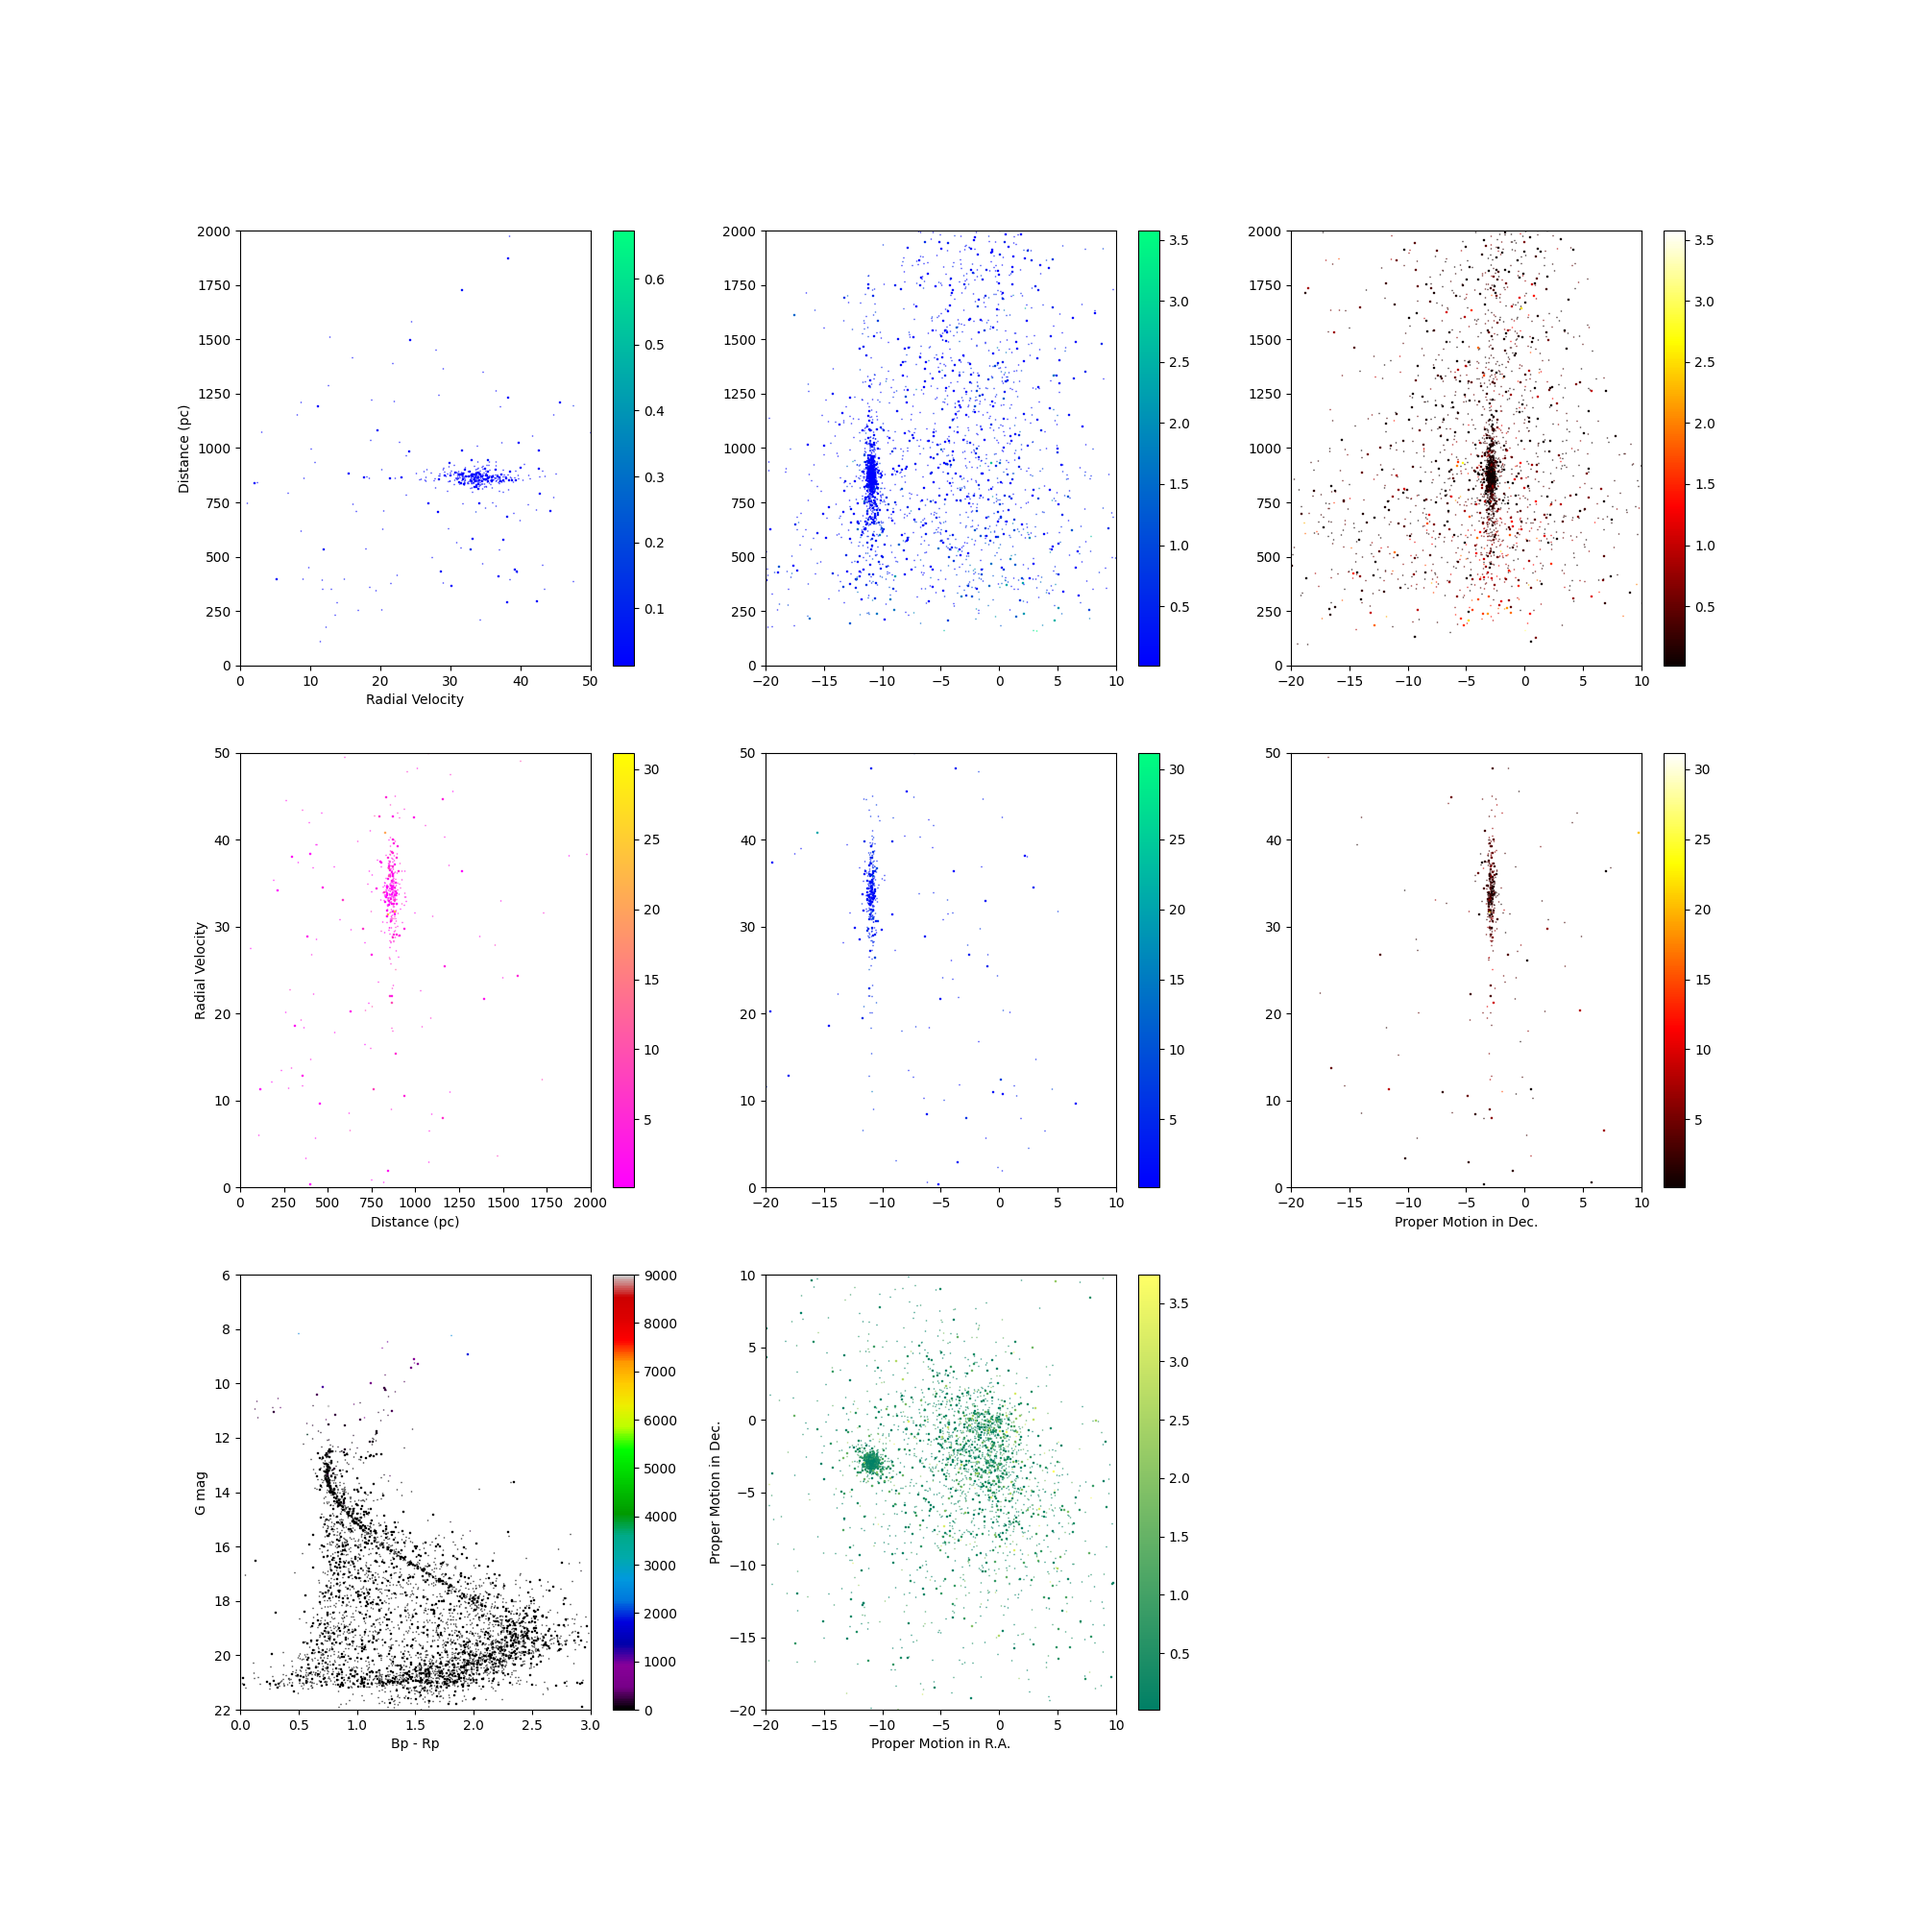
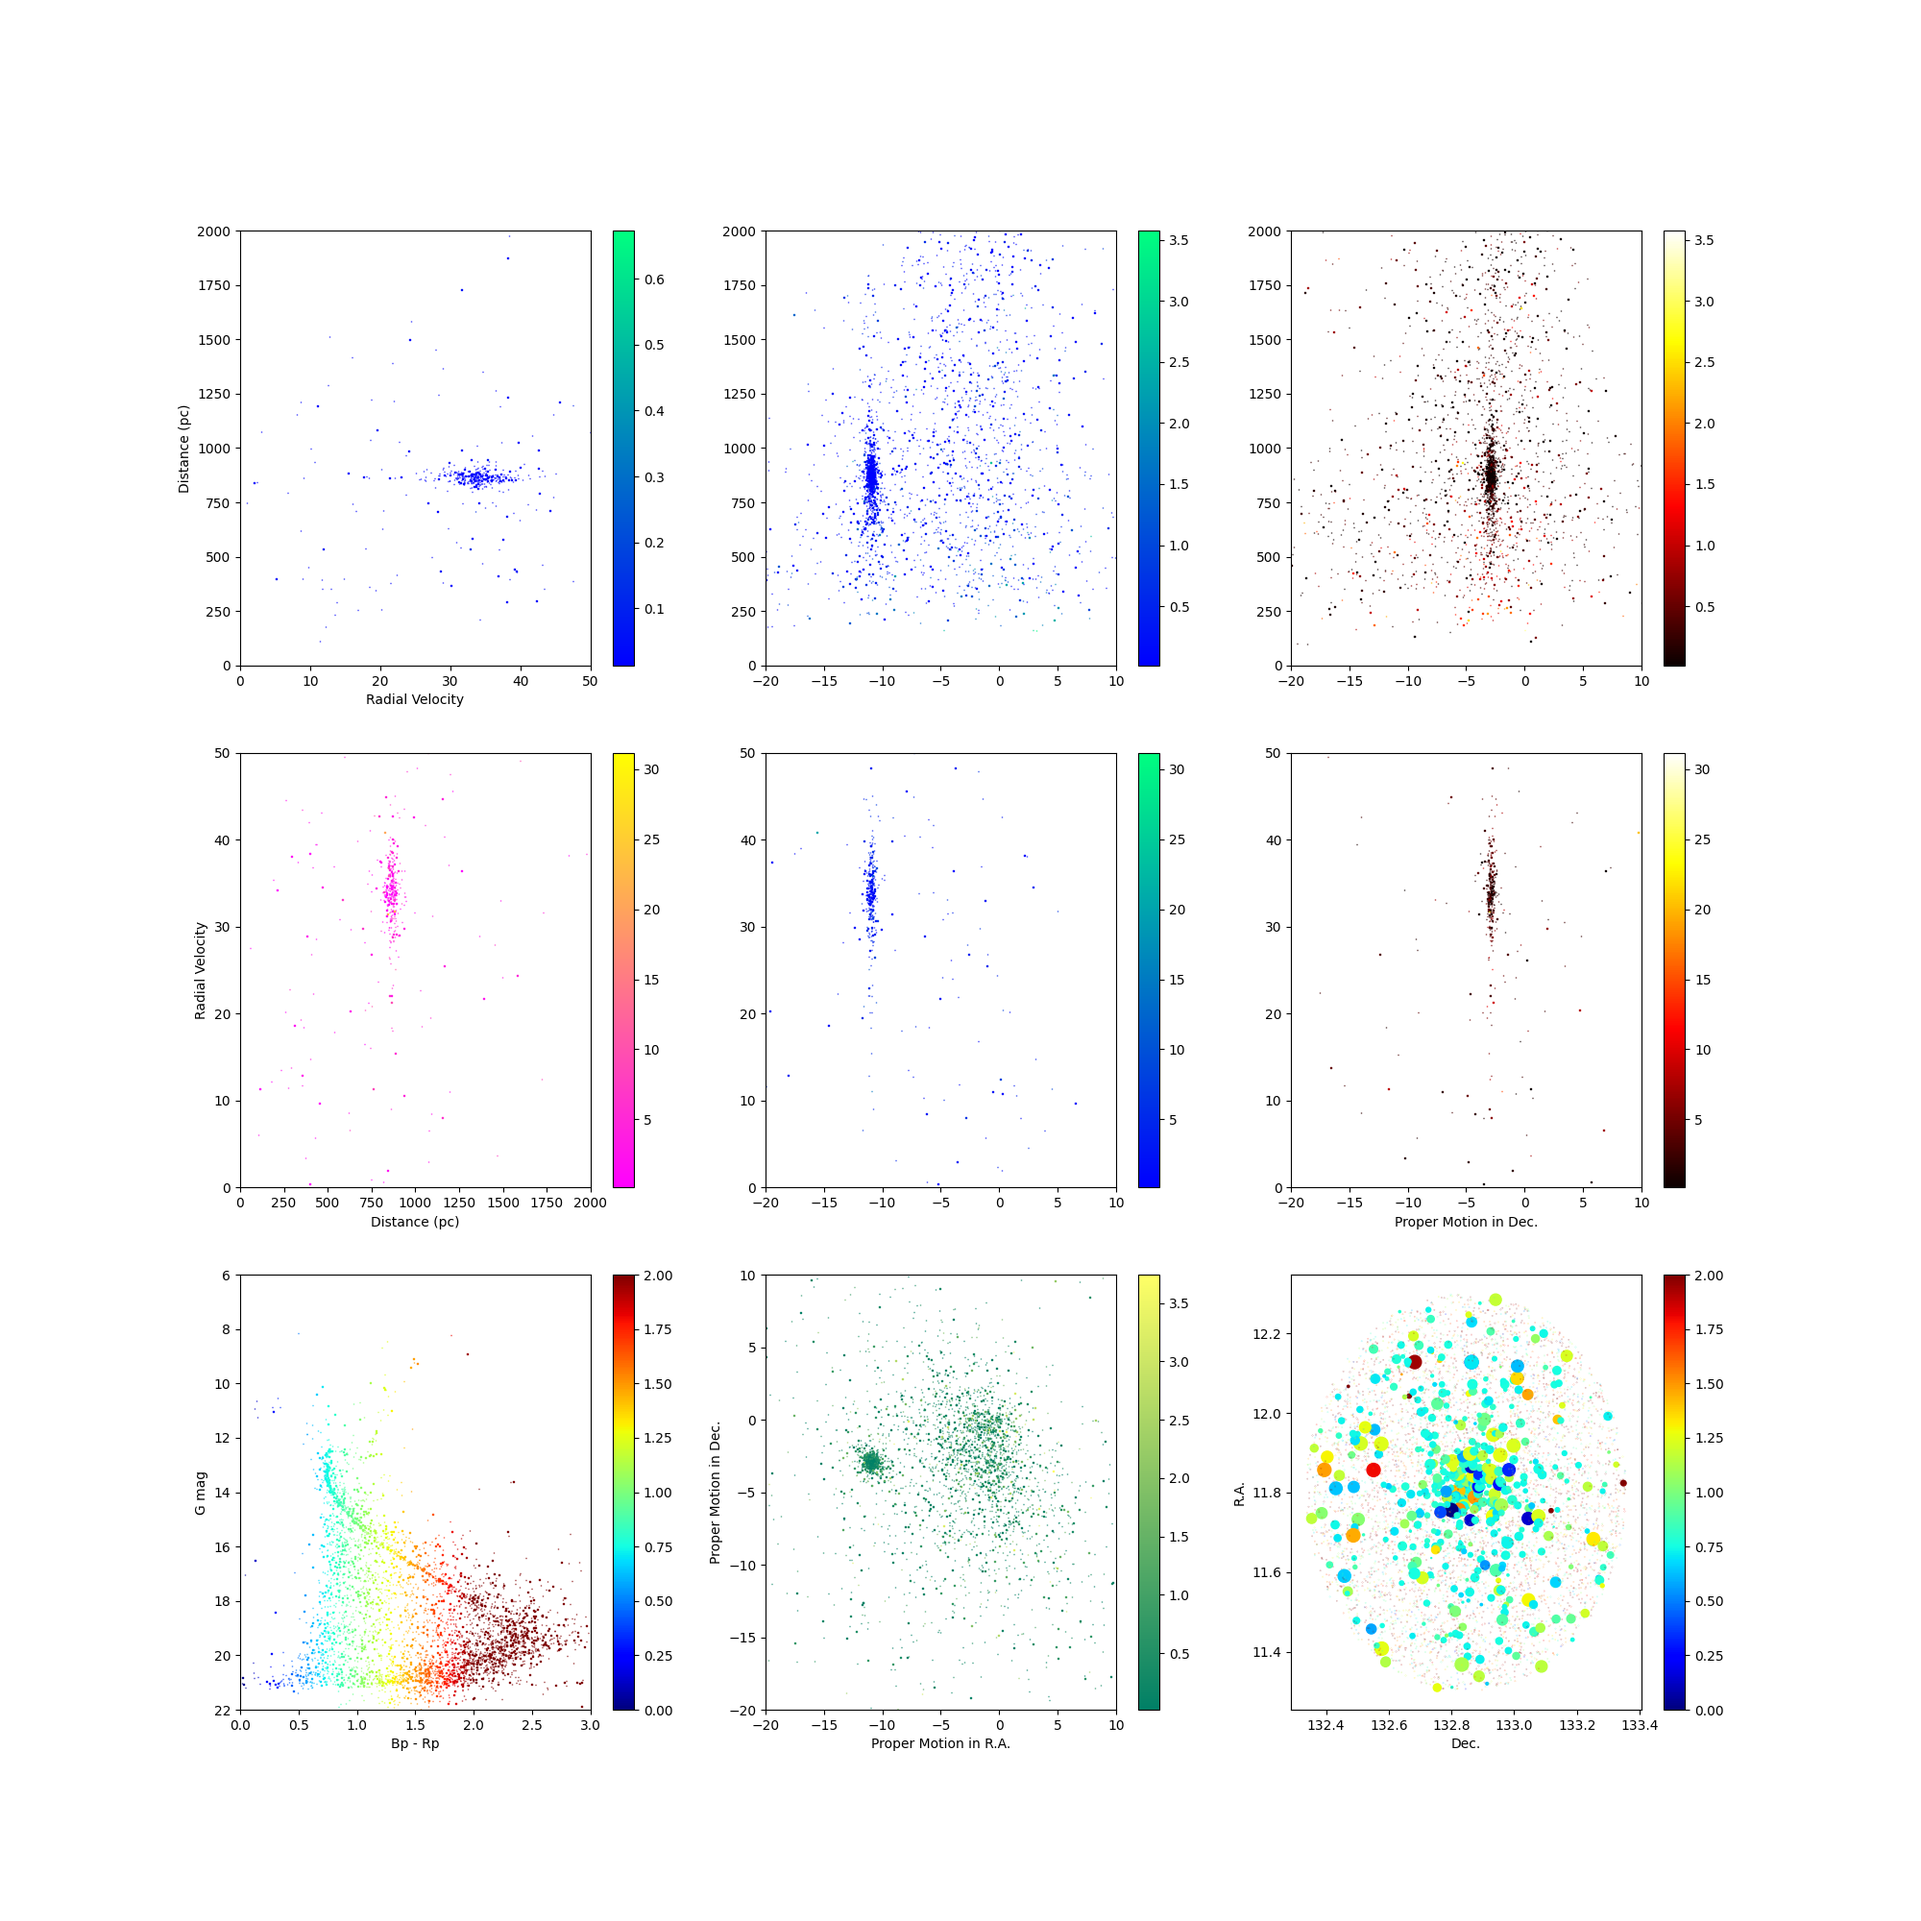
Add files via upload

Changed region(s): [[0.682, 0.651, 0.899, 0.899], [0.155, 0.744, 0.279, 0.899], [0.31, 0.651, 0.341, 0.899]]

diff --git a/opencluster.py b/opencluster.py
@@ -1,12 +1,13 @@
 import pandas as pd
 import matplotlib.pyplot as plt
+import math
+import numpy as np
 input_csv  = "M67_gaia_dr3.csv"
 output_cmd = "M67_gaia_dr3_cmd.png"
 output_astrometry ="M67_gaia_dr3_mem.png" 
 
 cl = pd.read_csv(input_csv)
-
-print(list(cl.columns))
+#print(list(cl.columns))
 
 plt.rcParams['figure.figsize'] = [20, 20]
 
@@ -16,9 +17,9 @@ plt.scatter(cl.bp_rp, # X
         cl.phot_g_mean_mag, #Y
         marker = 's', # point type
         s = 0.1, # point size
-        c = cl.phot_g_mean_flux_error, # color = g Flux(not mag!) error
-        vmin = 0, vmax = 9000, # set error range to show in color bar
-        cmap = 'nipy_spectral') 
+        c = cl.bp_rp, # color = bp_rp
+        vmin = 0, vmax = 2, # set color bar as X axis color
+        cmap = 'jet') 
 plt.xlim(0,3) # X axis range 
 plt.ylim(22,6) # Y axis range
 plt.xlabel('Bp - Rp') 
@@ -39,7 +40,6 @@ plt.ylim(-20,10)
 plt.xlabel('Proper Motion in R.A.')
 plt.ylabel('Proper Motion in Dec.')
 plt.colorbar()
-
 
 # Draw R.A. Proper Motion - Distance diagram
 cl['distance'] = 1000/cl['parallax'] # Add Distance (in pc) column
@@ -91,8 +91,6 @@ plt.ylim(0,50)
 plt.xlabel('Proper Motion in Dec.')
 plt.colorbar()
 
-
-
 # Draw Distance - Radial Velocity diagram
 plt.subplot(3,3,4)
 plt.scatter(cl.distance,
@@ -106,7 +104,6 @@ plt.ylim(0,50)
 plt.xlabel('Distance (pc)')
 plt.ylabel('Radial Velocity')
 plt.colorbar()
-
 
 # Draw R.A. Radial Velocity - Distance Diagram
 plt.subplot(3,3,1)
@@ -122,5 +119,23 @@ plt.ylabel('Distance (pc)')
 plt.xlabel('Radial Velocity')
 plt.colorbar()
 
+# Draw Spatial Potioin map(R.A. - Dec. map)
+cl['mag_scale'] = (14-cl['phot_g_mean_mag'])*25
+cl.loc[cl['mag_scale'] > 100, 'mag_scale']=100
+cl.loc[cl['mag_scale'] < 0.01, 'mag_scale']=0.01
+cl.loc[cl['phot_g_mean_mag'] < 10, 'mag_scale']=100
+#print(cl[['phot_g_mean_mag','mag_scale']])
+plt.subplot(3,3,9)
+plt.scatter(cl.ra,
+        cl.dec,
+        s = cl.mag_scale,
+        c = cl.bp_rp,
+        vmin = 0,
+        vmax = 2,
+        cmap='jet')
+plt.ylabel('R.A.')
+plt.xlabel('Dec.')
+plt.colorbar()
 
+# Save gifure as a file
 plt.savefig(output_cmd)
